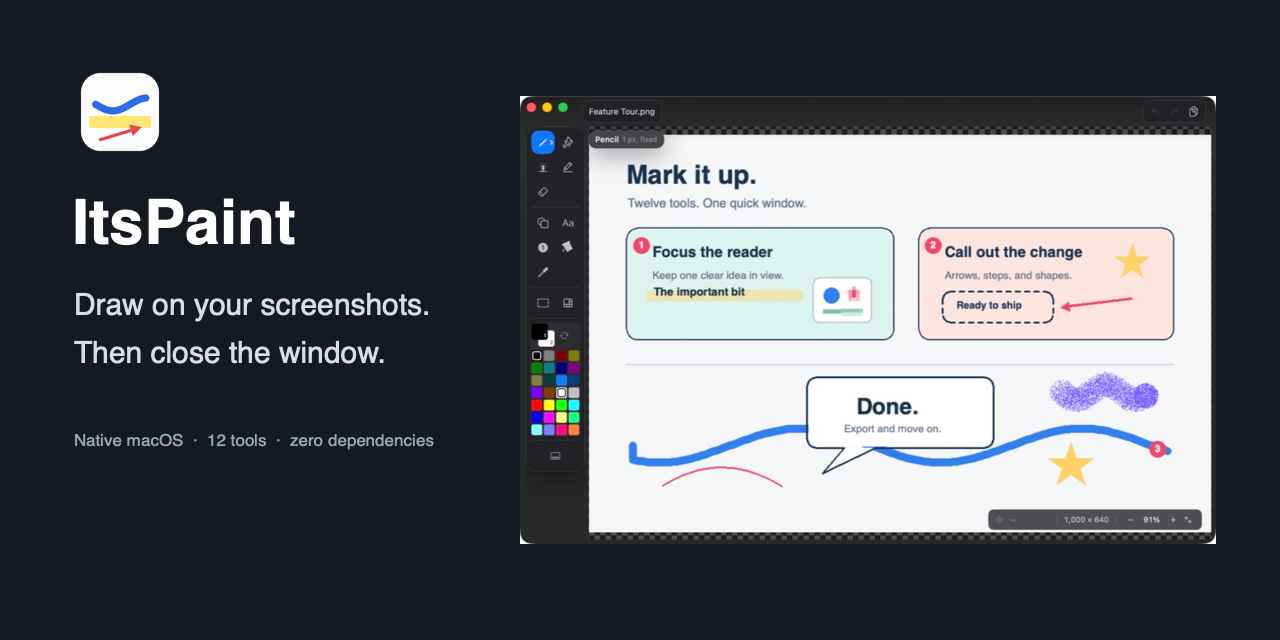
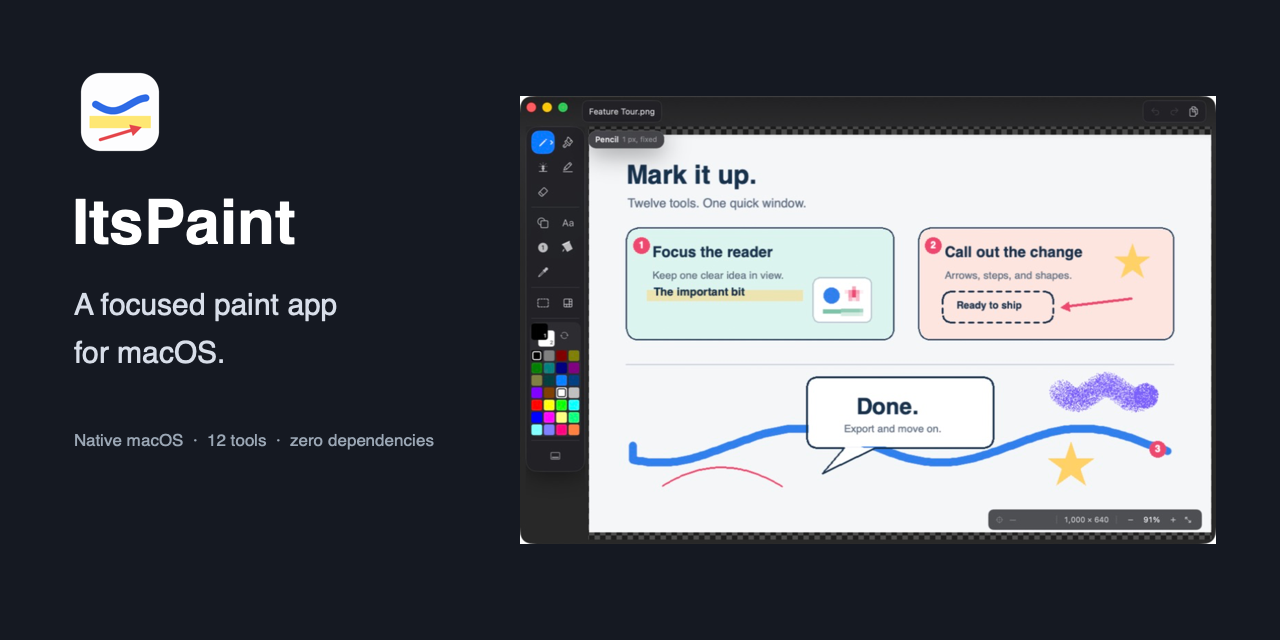
Polish the public beta presentation

Changed region(s): [[0.0312, 0.5312, 0.3125, 0.5938], [0.0625, 0.4375, 0.3438, 0.5]]

diff --git a/Packages/PaintKit/Sources/PaintDemo/SocialPreview.swift b/Packages/PaintKit/Sources/PaintDemo/SocialPreview.swift
@@ -58,7 +58,7 @@ enum SocialPreview {
             into: &canvas
         )
         TextRenderer.draw(
-            "Draw on your screenshots.",
+            "A focused paint app",
             in: PixelRect(x: 74, y: 286, width: 430, height: 46),
             style: TextRenderer.Style(
                 fontName: "Helvetica",
@@ -68,7 +68,7 @@ enum SocialPreview {
             into: &canvas
         )
         TextRenderer.draw(
-            "Then close the window.",
+            "for macOS.",
             in: PixelRect(x: 74, y: 334, width: 430, height: 46),
             style: TextRenderer.Style(
                 fontName: "Helvetica",

diff --git a/README.md b/README.md
@@ -2,10 +2,11 @@
 
 # ItsPaint
 
-### Draw on your screenshots. Sketch a thing. Close the window.
+### A focused paint app for macOS.
 
-**A native Mac paint app that keeps every tool in sight, stays out of your way,
-and has zero third-party dependencies.**
+Open an image, make a quick edit, and export it without setting up a workspace.
+ItsPaint keeps its drawing tools, colours, and palette visible in one native Mac
+window.
 
 [![CI](https://github.com/joshlin2201/itspaint/actions/workflows/ci.yml/badge.svg)](https://github.com/joshlin2201/itspaint/actions/workflows/ci.yml)
 [![Latest release](https://img.shields.io/github/v/release/joshlin2201/itspaint?include_prereleases&sort=semver&label=beta)](https://github.com/joshlin2201/itspaint/releases)
@@ -15,213 +16,142 @@ and has zero third-party dependencies.**
 
 <br>
 
-![The ItsPaint editor with a marked-up sketch open](docs/images/editor-window.png)
+![ItsPaint showing a feature tour drawn with the app](docs/images/editor-window.png)
 
-<sub>Everything in that canvas — dashed box, numbered badges, speech bubble, star,
-airbrush spatter, bent curve — was drawn by the engine itself in
-<a href="Packages/PaintKit/Sources/PaintDemo">PaintDemo</a>, which builds the sample
-by driving the same gesture API the canvas does.
+<sub>The artwork in this screenshot was produced by PaintKit, the same engine
+used by the editor. The sample is reproducible with
 <code>swift run --package-path Packages/PaintKit paint-demo out.png</code>.</sub>
 
 </div>
 
----
+## Highlights
 
-<div align="center">
-
-| **12** | **15** | **up to 9** | **293** |
-|:--:|:--:|:--:|:--:|
-| tools | shapes | export formats | tests |
-
-</div>
-
----
-
-## 60 seconds
-
-```bash
-# Download the beta .dmg from Releases and drag it to Applications.
-# Control-click ItsPaint, choose Open, then confirm Open (notarisation note below).
-
-# Or build it, which takes one command:
-git clone https://github.com/joshlin2201/itspaint.git && cd itspaint
-open ItsPaint.xcodeproj    # ⌘R
-```
-
-Then: paste a screenshot with **⌘V**, hit **N** and click three times to drop
-numbered badges, **R** to mosaic a distracting detail, **⌘⇧E** to export.
-Close the window. That is the whole product.
-
----
-
-## The argument
-
-Preview can mark up an image, and a full editor can do almost anything. ItsPaint
-sits between them: open an image, draw directly on it, and finish before the
-editor becomes a project. The app this descends from was learnable in five
-minutes because it hid nothing — every tool, both colours and the whole palette
-on screen at once, and the mouse buttons did the obvious thing.
-
-That is worth rebuilding properly. So:
-
-**Nothing is hidden.** Twelve tools, both loaded colours and all 28 swatches,
-visible always, in a rail that lives left or bottom (⌥⌘T). A tool's variations
-expand from the button you pressed — fifteen shapes behind one Shape button — so
-the rail stays a list you read at a glance. *A test fails the build if it grows
-past fourteen buttons.*
-
-**It respects the pixel.** Integer coordinates end to end: the pixel you clicked
-is the pixel that changed. Nearest-neighbour above 100%. A live footprint ring
-shows exactly which pixels the next stroke will cover, and past 4× the single
-pixel under the pointer gets outlined.
-
-**It gets out of the way.** No account, no telemetry, no cloud, no Electron, no
-update nag, no splash screen. Sandboxed, and it touches only the files you open.
-
----
-
-## What's in it
-
-| | |
-|---|---|
-| **Draw** | Pencil · Brush · **Airbrush** · Highlighter · Eraser |
-| **Insert** | **Shape** (15 kinds) · Text · **Step badges** · Fill · Eyedropper |
-| **Select** | Select — rectangle · ellipse · lasso · **Instant Alpha** · **Pixelate** mosaic |
-
-**Fifteen shapes, one button.** Line, curve *(drag it, then bend it)*, arrow,
-rectangle, rounded rectangle, ellipse, triangle, right triangle, diamond,
-pentagon, hexagon, five- and six-point star, speech bubble, click-corner
-polygon — each solid, **dashed** or dotted, outlined, filled, or both.
-
-**Built for markup, not nostalgia.** A highlighter that refuses to darken where
-a stroke crosses itself. Arrows. Crop and trim-borders. Numbered step badges for
-walkthroughs. Clipboard paste that lands as *movable* floating content. And a
-block-size-controlled mosaic for de-emphasising part of a screenshot.
-
-**Pixelate is a visual effect, not secure redaction.** Do not use it to hide
-passwords, tokens or personal data. Cover secrets with an opaque filled shape
-before exporting a flattened image.
-
-**Up to nine export formats** — PNG, JPEG, TIFF, BMP, GIF, HEIC, AVIF, PDF,
-ICO — with the exact list matched to the encoders built into your version of
-macOS. The save panel includes format and scale pickers, and ICO is fitted to a
-legal icon square instead of failing. Documents save as `.itspaint`: a lossless
-PNG plus JSON, so your artwork opens in anything even if this app disappears.
-
-### Keyboard
-
-| | | | |
-|---|---|---|---|
-| `P` pencil | `B` brush | `A` airbrush | `H` highlighter |
-| `E` eraser | `U` shape | `T` text | `N` step badge |
-| `K` fill | `I` eyedropper | `M` select | `R` pixelate |
-| `X` swap colours | `[` `]` size | `⌥1`–`⌥9` shape | `Space` pan |
-
-Pinch or ⌘-scroll zooms continuously **around the pointer**; ⌘+/⌘− snap to the
-ramp. Hold `⌥` to sample a colour with any tool. Right-drag paints your second
-colour; right-*click* opens the canvas menu. **Escape gets you out of
-everything** — half-drawn shape, open text box, selection, floating paste.
-
----
-
-## Under the hood
-
-```
-Packages/PaintKit/      the engine — no UI, no dependencies, 211 tests
-  Pixels/               RGBA8, geometry, brushes, rasterisers
-  Colour/ Tools/        colour model, palette, tool set, selection, engine
-  Undo/ Codec/          rect-scoped patches; Core Graphics + ImageIO bridge
-App/                    the shell — AppKit lifecycle, SwiftUI chrome, 82 tests
-  Canvas/ Document/     NSView canvas, zoom, cursors; NSDocument + .itspaint
-  Model/ UI/            engine ⇄ SwiftUI bridge; rail, options, palette
-```
-
-`PaintKit` is UI-free and dependency-free on purpose: it is why the entire tool
-matrix is testable in milliseconds without launching an app, and why a UI
-redesign is a view-layer change rather than a rewrite.
-
-Decisions that each cost a bug to learn:
-
-- **Every mutating call returns its dirty rect.** Redraw *and* undo capture scope
-  to it. It is the single reason a big canvas stays smooth.
-- **Undo is bounded by bytes, not steps** — fifty dots and fifty full-canvas
-  fills differ by four orders of magnitude — and bridged to `NSUndoManager` by
-  registering the inverse from inside each replay, so the two histories cannot
-  drift apart.
-- **RGBA8 premultiplied sRGB**, chosen so the same buffer serves both our own
-  scanline rasterisers and Core Graphics with no conversion.
-- **The canvas repaints only what changed.** SwiftUI re-runs a representable on
-  every observed change — including the pointer moving — so the view tracks the
-  revision it has already painted instead of redrawing everything per mouse-move.
-- **Text rasterises on commit**, because a document format carrying live text
-  that the PNG export silently flattens is a lie.
-
-### Tests
-
-```bash
-swift test --package-path Packages/PaintKit             # engine
-swift test -c release --package-path Packages/PaintKit  # + throughput guards
-xcodebuild -project ItsPaint.xcodeproj -scheme ItsPaint \
-           -destination 'platform=macOS' test           # app integration (82)
-```
-
-They assert **pixels, not screenshots**: `#expect(canvas.pixel(at: p) == …)`
-names the pixel that moved, where an image diff hands you two similar-looking
-PNGs and wishes you luck. The six throughput guards assert only in release
-builds, because unoptimised timings measure the compiler, not the algorithm.
-
----
+- **Twelve visible tools** for drawing, markup, text, selection, colour, and
+  pixelation.
+- **Fifteen shapes** with solid, dashed, or dotted outlines and optional fills.
+- **A compact tool rail** that moves between the left and bottom edges of the
+  window.
+- **Precise canvas control** with pointer-centred zoom, nearest-neighbour display
+  above 100%, pixel grids, and live tool footprints.
+- **Native documents and common exports** with no third-party dependencies,
+  accounts, telemetry, or cloud service.
 
 ## Install
 
-**Beta `.dmg`** → [Releases](https://github.com/joshlin2201/itspaint/releases).
-Drag to Applications. The current beta is **ad-hoc signed, not notarised**, so
-Control-click the app → **Open** → **Open** on first launch. If macOS still
-blocks it, clear the download quarantine once:
+Download the latest beta from [Releases](https://github.com/joshlin2201/itspaint/releases),
+open the disk image, and drag **ItsPaint** to Applications.
+
+The beta is ad-hoc signed and is not yet notarised. On first launch,
+Control-click **ItsPaint**, choose **Open**, then confirm **Open**. If macOS
+continues to block the app, clear its download quarantine once:
 
 ```bash
 xattr -dr com.apple.quarantine /Applications/ItsPaint.app
 ```
 
-Every download is listed with a SHA-256 in `checksums.txt`. Prefer not to trust
-a binary? Building takes one command,
-and the CI that produces the release is [right here](.github/workflows/release.yml).
+Each release includes `checksums.txt` with SHA-256 hashes for the downloads.
+ItsPaint requires macOS 14 Sonoma or later.
 
-**Requires macOS 14 (Sonoma) or later.** Building needs Xcode 16+.
+To build from source:
 
----
+```bash
+git clone https://github.com/joshlin2201/itspaint.git
+cd itspaint
+open ItsPaint.xcodeproj
+```
 
-## Status: beta, and honest about it
+Build and run the **ItsPaint** scheme with `⌘R`. Xcode 16 or later is required.
 
-It builds, it runs, the suite is green, and it is what I use for day-to-day
-markup. It has not been near the App Store, and released binaries are not
-notarised. Known limits, stated plainly:
+## Tools
 
-- **No WebP export** — macOS reads WebP but ships no encoder, and a third-party
-  one is a dependency this app refuses to take. AVIF covers the same need.
-- **Text is pixels once committed.** Re-editing means undo and retype.
-- **The lasso mask rebuilds from the whole path** on each pointer move. Fine for
-  paths people actually trace; incremental extension is the upgrade if a very
-  long one ever stutters.
-- **Next up:** a loupe, adjust-colour sliders, a fuller image dimensions
-  dialog, separate border/fill wells.
+| Group | Tools |
+|---|---|
+| **Draw** | Pencil, Brush, Airbrush, Highlighter, Eraser |
+| **Insert** | Shape, Text, Step Badge, Fill, Eyedropper |
+| **Select** | Rectangle, Ellipse, Lasso, Instant Alpha |
+| **Effects** | Pixelate |
 
-[`CHANGELOG.md`](CHANGELOG.md) has what changed, and
-**[`docs/`](docs/README.md)** has the rest:
-[philosophy](docs/PHILOSOPHY.md) · [anatomy](docs/ARCHITECTURE.md) ·
-[design language](docs/DESIGN.md) · [feature reference](docs/FEATURES.md) ·
-[testing protocol](docs/TESTING.md) · [roadmap](docs/ROADMAP.md) — plus the
-original [plan of record](docs/PLAN.md), kept with its own critique because the
-reasoning is the useful part.
+The Shape tool includes line, curve, arrow, rectangle, rounded rectangle,
+ellipse, triangle, right triangle, diamond, pentagon, hexagon, five- and
+six-point stars, speech bubble, and polygon.
+
+Instant Alpha selects connected pixels by colour. Use `⇧`-click to add to the
+selection, `⌥`-click to subtract, then choose **Make transparent**.
+
+Pixelate is intended for visual de-emphasis, not secure redaction. Use an opaque
+filled shape to cover private information before exporting a flattened image.
+
+## Everyday workflow
+
+Paste an image with `⌘V` or open it from Finder. Add arrows, shapes, text, step
+badges, highlights, or freehand marks. Floating pasted content and selections can
+be moved or resized before they are placed. Export with `⇧⌘E`, or save an
+editable `.itspaint` document.
+
+| Shortcut | Action | Shortcut | Action |
+|---|---|---|---|
+| `P` | Pencil | `B` | Brush |
+| `A` | Airbrush | `H` | Highlighter |
+| `E` | Eraser | `U` | Shape |
+| `T` | Text | `N` | Step Badge |
+| `K` | Fill | `I` | Eyedropper |
+| `M` | Select | `R` | Pixelate |
+| `X` | Swap colours | `[` / `]` | Change tool size |
+| `Space` | Pan | `⌥1`–`⌥9` | Choose a shape |
+
+Pinch or `⌘`-scroll to zoom around the pointer. Hold `⌥` to sample a colour
+without changing tools. Right-drag uses the second colour. `Esc` cancels the
+current shape, text box, selection, floating paste, or options panel.
+
+## Files and export
+
+ItsPaint documents use the `.itspaint` package format: a lossless PNG with JSON
+metadata for the canvas, colours, and palette.
+
+Export supports PNG, JPEG, TIFF, BMP, GIF, HEIC, AVIF, PDF, and ICO when the
+corresponding encoder is available in the installed macOS version. The export
+panel includes format and scale controls. Formats without alpha are flattened
+onto the second colour.
+
+## Design and implementation
+
+ItsPaint has two layers:
+
+```text
+Packages/PaintKit/   UI-free drawing engine, raster operations, undo, and codecs
+App/                 AppKit document lifecycle, canvas, and SwiftUI interface
+```
+
+PaintKit stores pixels as premultiplied RGBA8 and returns the changed rectangle
+from every edit. The canvas redraws only that area, and undo history is bounded
+by memory rather than by a fixed number of steps.
+
+Run the test suites with:
+
+```bash
+swift test --package-path Packages/PaintKit
+swift test -c release --package-path Packages/PaintKit
+xcodebuild -project ItsPaint.xcodeproj -scheme ItsPaint \
+  -destination 'platform=macOS' test
+```
+
+## Release notes
+
+ItsPaint is in public beta. Released builds are ad-hoc signed and not notarised.
+Text becomes pixels when committed, and WebP export is not available because
+macOS does not provide a WebP encoder.
+
+See [CHANGELOG.md](CHANGELOG.md) for version history and
+[docs/README.md](docs/README.md) for the design, architecture, feature reference,
+testing guide, and roadmap.
 
 ## Contributing
 
-Issues and PRs welcome. [`CONTRIBUTING.md`](CONTRIBUTING.md) covers the two rules
-that matter — *the engine stays UI-free*, and *the rail lists jobs, not
-variations* — plus how to run the tests. Good first issues are tagged.
+Issues and pull requests are welcome. [CONTRIBUTING.md](CONTRIBUTING.md) explains
+the project structure, design constraints, and test requirements.
 
 <div align="center">
 
-**[MIT](LICENSE)** · Built by [Josh Lin](https://github.com/joshlin2201) · If it saved you a trip to Photoshop, star it.
+[MIT License](LICENSE) · Built by [Josh Lin](https://github.com/joshlin2201)
 
 </div>
